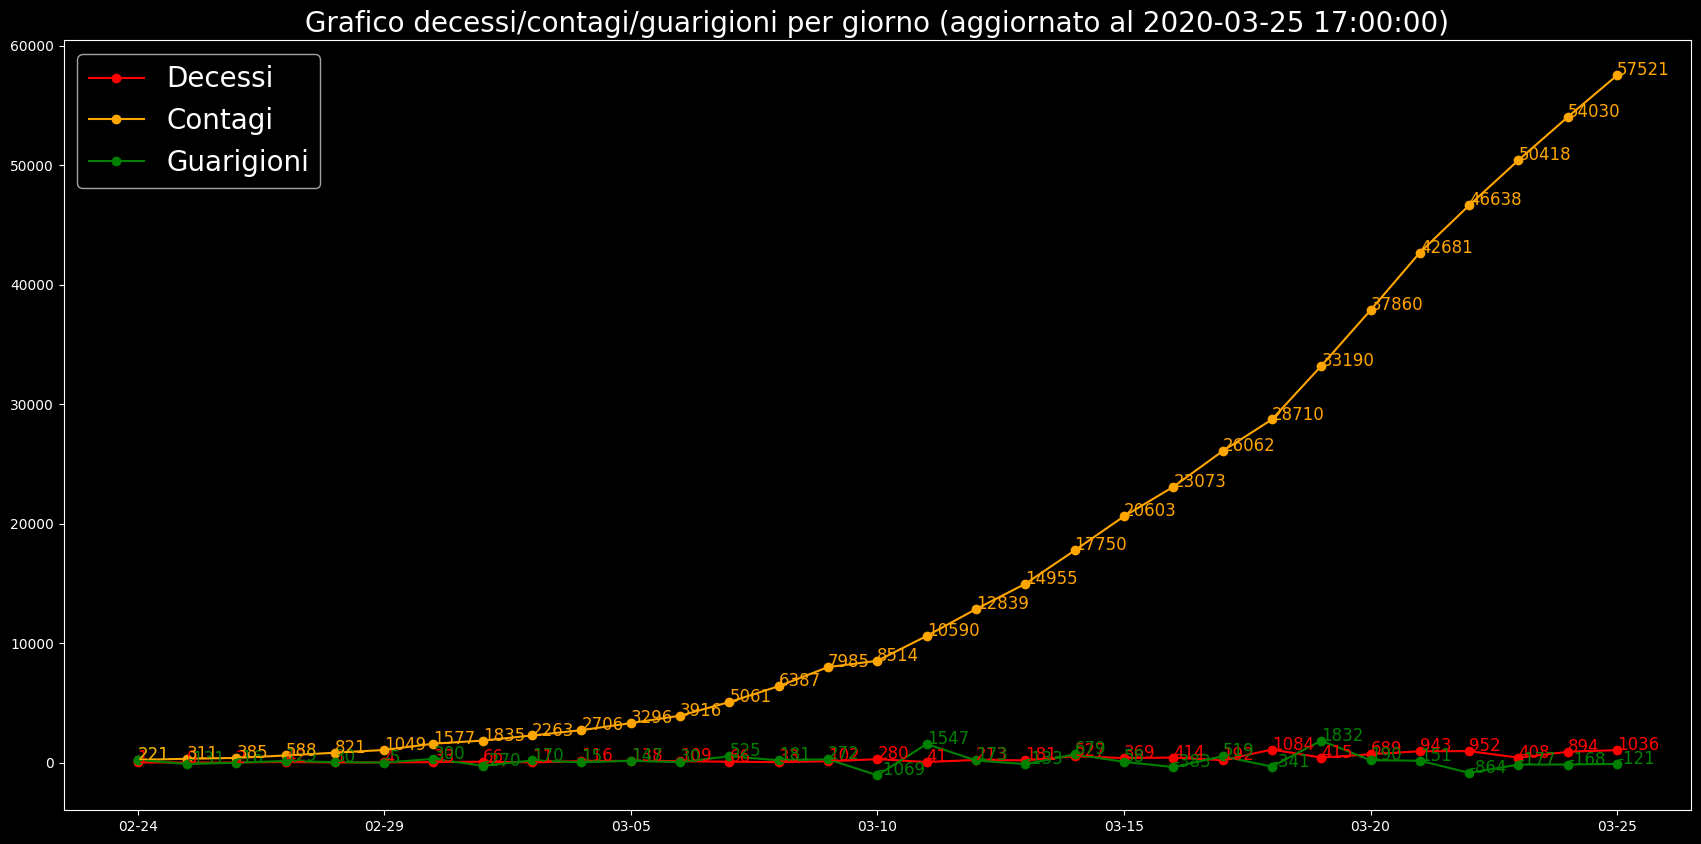
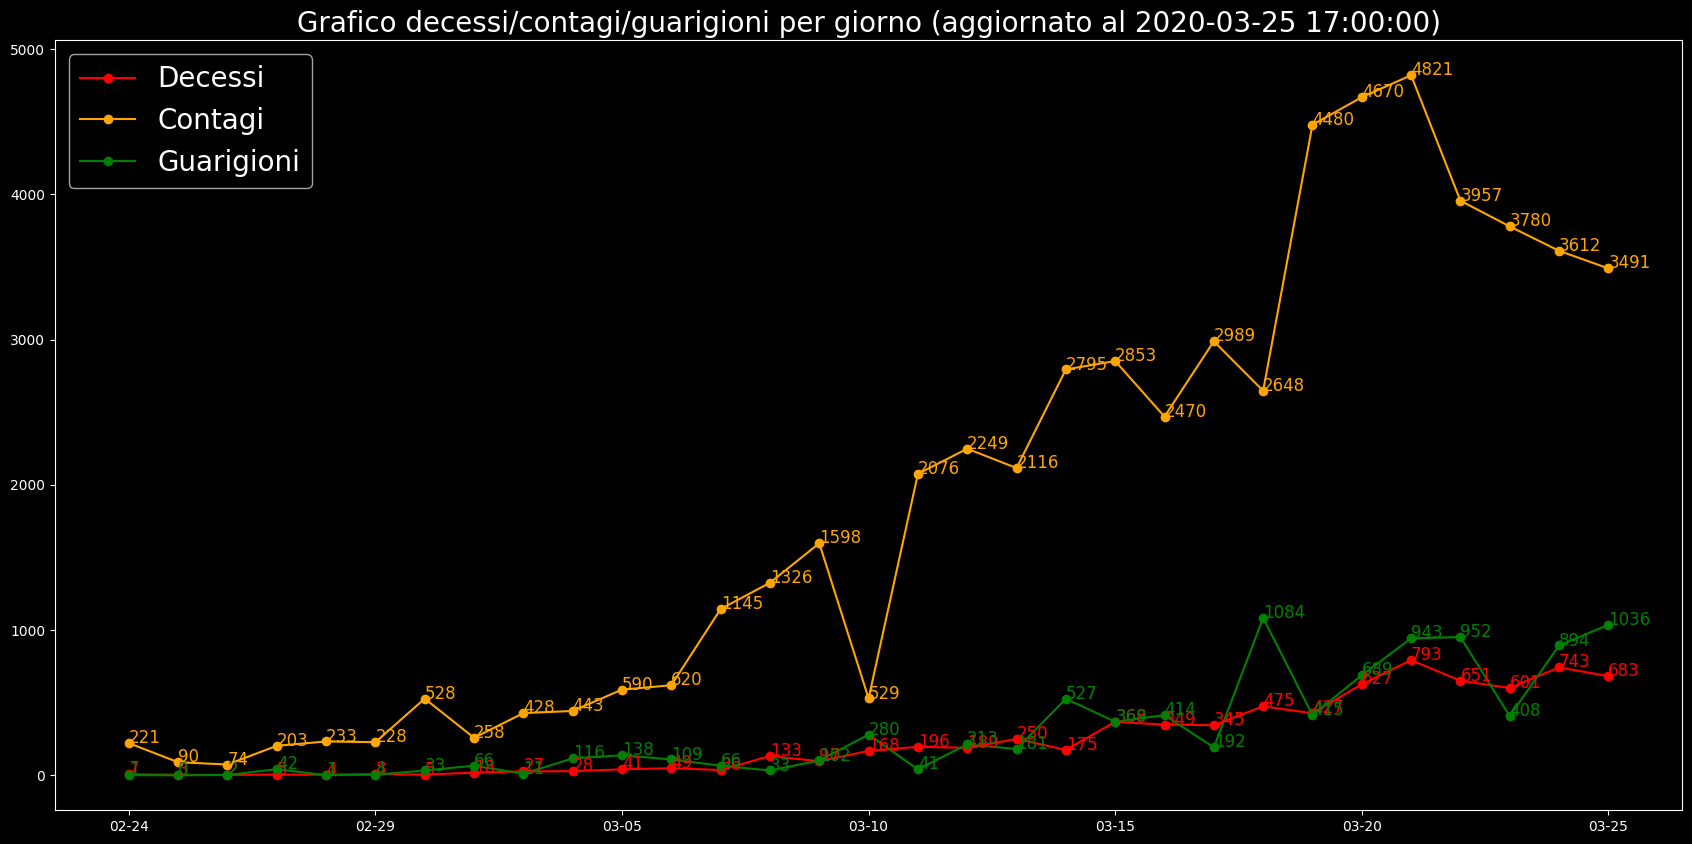
Added 25-03

diff --git a/covid19graphs/src/ContHealDeathPerDay.py b/covid19graphs/src/ContHealDeathPerDay.py
@@ -57,9 +57,9 @@ def savetopstats(listelements, listnames, statsfile):
 # Salva le statistiche cumulative in un file in assets
 def savetotstats(listall, listnames, statsfile):
     lastrow = listall[-1:][0]
-    print(listnames[0] +": "+ str(lastrow[8]), file=statsfile)
-    print(listnames[1] +": "+ str(lastrow[7]), file=statsfile)
-    print(listnames[2] +": "+ str(lastrow[9]), file=statsfile)
+    print(listnames[0] +": "+ str(lastrow[9]), file=statsfile)
+    print(listnames[1] +": "+ str(lastrow[8]), file=statsfile)
+    print(listnames[2] +": "+ str(lastrow[10]), file=statsfile)
     return
 
 def main():
@@ -84,9 +84,9 @@ def main():
     removehourandyear(giornocasi)
 
     # Liste di dati    
-    decxday = [int(h[8]) if h[8] else 0 for h in listadati]         #Lista z per giorno
-    guaxday = [int(h[7]) if h[7] else 0 for h in listadati]         #Lista guarigioni per giorno
-    contxday = [int(h[6])if h[6] else 0 for h in cumulativedays]       #Lista nuovi contagiati per giorno, non uso cumulazione poichè il dato è già giornaliero nel csv
+    decxday = [int(h[9]) if h[9] else 0 for h in listadati]         #Lista z per giorno
+    guaxday = [int(h[8]) if h[8] else 0 for h in listadati]         #Lista guarigioni per giorno
+    contxday = [int(h[7])if h[7] else 0 for h in cumulativedays]       #Lista nuovi contagiati per giorno, non uso cumulazione poichè il dato è già giornaliero nel csv
 
     # Creazioni Serie
     deathseries = pd.Series(data=decxday, index=giornocasi)
